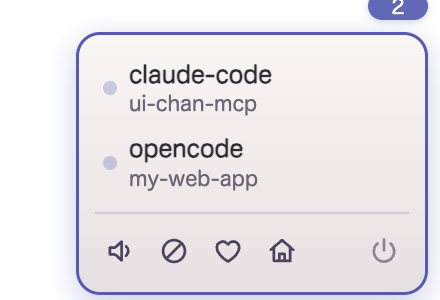
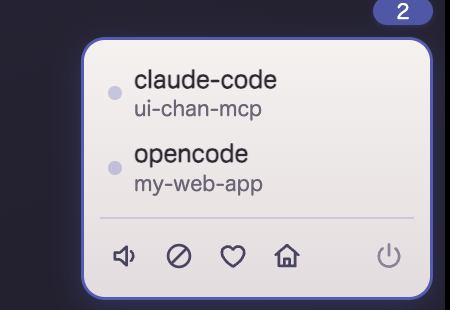
feat(shot): 背景を敷いてスクリーンショットを撮れるようにする
ウィンドウは透過なので、撮った画像は白背景以外に置けなかった。README や
配布ページに載せる絵が作れないので、撮る瞬間だけ背景を敷く仕組みを入れる。

- screenshot の WS リクエストに background を追加。レンダラ側で body の
  背景を差し替え、撮り終えたら透過に戻す
- プリセット light / dark / desk / white。それ以外は CSS の background に
  そのまま渡すので、グラデーションでも画像でも指定できる
- CLI に
- README の画像を dark 背景で撮り直した（立ち絵が締まって見える）
- docs/DEVELOPMENT.md に使い方を記載

diff --git a/src/app/main.ts b/src/app/main.ts
@@ -269,6 +269,15 @@ function handleRequest(ws: WebSocket, req: WsRequest): WsResponse {
   }
 }
 
+/** Ask the renderer to paint a backdrop and wait for it to have painted.
+ *  Two frames is enough (one to apply, one to render) and is far more reliable
+ *  than a fixed sleep. */
+async function setBackdrop(style: string | null): Promise<void> {
+  if (!win || !rendererReady) return;
+  sendToRenderer({ type: 'backdrop', style });
+  await new Promise((r) => setTimeout(r, 120));
+}
+
 async function handleScreenshot(req: WsRequest): Promise<WsResponse> {
   try {
     if (!win) return { id: req.id, ok: false, error: 'no window' };
@@ -285,8 +294,17 @@ async function handleScreenshot(req: WsRequest): Promise<WsResponse> {
     if (out !== shotRoot && !out.startsWith(shotRoot + path.sep)) {
       return { id: req.id, ok: false, error: `path must stay within ${shotRoot}` };
     }
-    const image = await win.webContents.capturePage();
-    fs.writeFileSync(out, image.toPNG());
+    // `background` is any CSS background value ('#fff', a gradient, …) or the
+    // named presets in the renderer.透過のままだと、白以外の場所に貼った
+    // 瞬間に破綻するので、撮る間だけ背景を敷く。
+    const background = typeof req.args?.background === 'string' ? req.args.background : null;
+    if (background) await setBackdrop(background);
+    try {
+      const image = await win.webContents.capturePage();
+      fs.writeFileSync(out, image.toPNG());
+    } finally {
+      if (background) await setBackdrop(null);
+    }
     return { id: req.id, ok: true, result: { path: out } };
   } catch (e) {
     return { id: req.id, ok: false, error: String(e) };

diff --git a/src/renderer/renderer.ts b/src/renderer/renderer.ts
@@ -548,6 +548,18 @@ async function init(): Promise<void> {
       reportWarnings();
       lipCurrentMouth = null; // let the next lip tick re-assert its mouth
       draw();
+    } else if (cmd.type === 'backdrop') {
+      // Named presets keep the common cases short; anything else is passed to
+      // CSS as-is, so a caller can hand over a gradient or an image.
+      const PRESETS: Record<string, string> = {
+        white: '#ffffff',
+        light: 'linear-gradient(160deg, #f7f4f8 0%, #e9e6f2 100%)',
+        dark: 'linear-gradient(160deg, #262435 0%, #1a1926 100%)',
+        desk: 'linear-gradient(180deg, #2b2a3d 0%, #3a3550 55%, #4e5bb5 100%)',
+      };
+      document.body.style.background = cmd.style
+        ? (PRESETS[cmd.style] ?? cmd.style)
+        : 'transparent';
     } else if (cmd.type === 'update') {
       const btn = document.getElementById('panel-update') as HTMLButtonElement;
       btn.hidden = !cmd.available;

diff --git a/src/shared/types.ts b/src/shared/types.ts
@@ -452,7 +452,11 @@ export type RenderCommand =
   | { type: 'connections'; agents: ConnectedAgent[]; active: number | null }
   /** Whether a newer ui-chan is waiting upstream. The panel shows its update
    *  entry only when this is true — nothing to announce, nothing on screen. */
-  | { type: 'update'; available: boolean; behind?: number; blocked?: string | null };
+  | { type: 'update'; available: boolean; behind?: number; blocked?: string | null }
+  /** Paint a backdrop behind her, for screenshots. The window is transparent by
+   *  design, which makes a capture unusable anywhere that isn't white — so the
+   *  backdrop is applied just long enough to take the picture. */
+  | { type: 'backdrop'; style: string | null };
 
 // ---- Explicit per-tool result types (replaces the loose ToolResultInfo
 // index signature; each tool's actual return shape is now checked by tsc). ----

diff --git a/docs/DEVELOPMENT.md b/docs/DEVELOPMENT.md
@@ -51,6 +51,21 @@ npx ui-chan use      # クライアントの参照先をこのクローンに向
 - `assets/` … 立ち絵。配れないから実質ここだけ
 - `.env` … 環境変数があればそっちが優先
 
+## スクリーンショットを撮る
+
+マスコットのウィンドウは透過なので、そのまま撮ると白以外の場所に置けない画像になります。
+`ui-chan shot` は**撮る瞬間だけ背景を敷いて**から撮ります。
+
+```bash
+ui-chan shot                      # ~/.ui-chan/ui-chan-shot.png（背景 light）
+ui-chan shot hero.png dark        # ファイル名と背景を指定
+ui-chan shot x.png "#1a1926"      # CSS の値をそのまま渡してもいい
+```
+
+背景のプリセットは `light` / `dark` / `desk` / `white`。それ以外の文字列は CSS の
+`background` にそのまま渡されるので、グラデーションでも画像でも指定できます。
+README に載せている画像もこれで撮っています。
+
 ## 変更が反映されるタイミング
 
 | 直したもの | 反映 |
